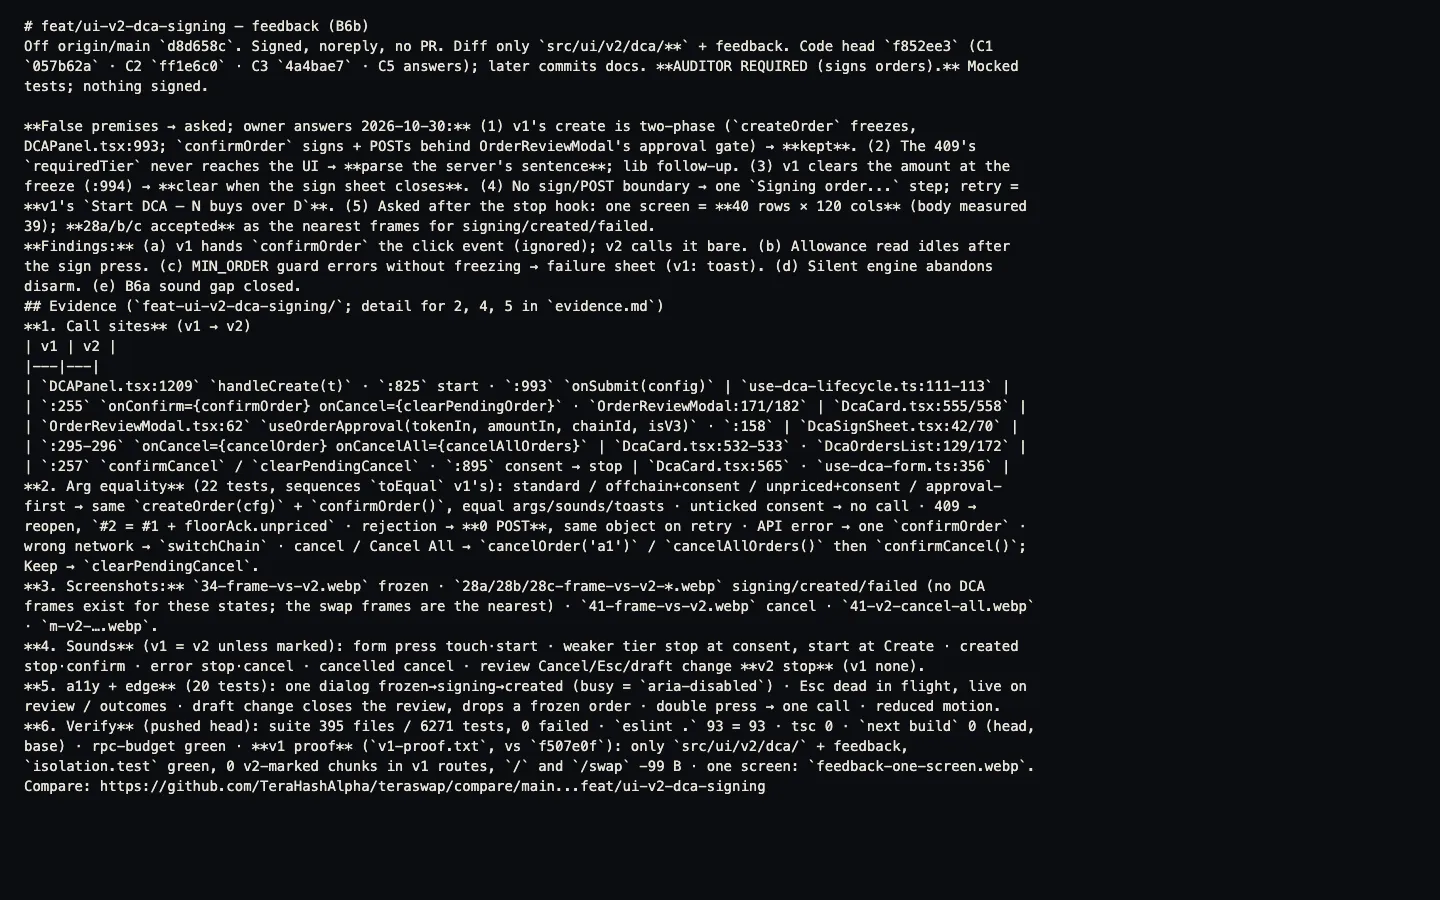
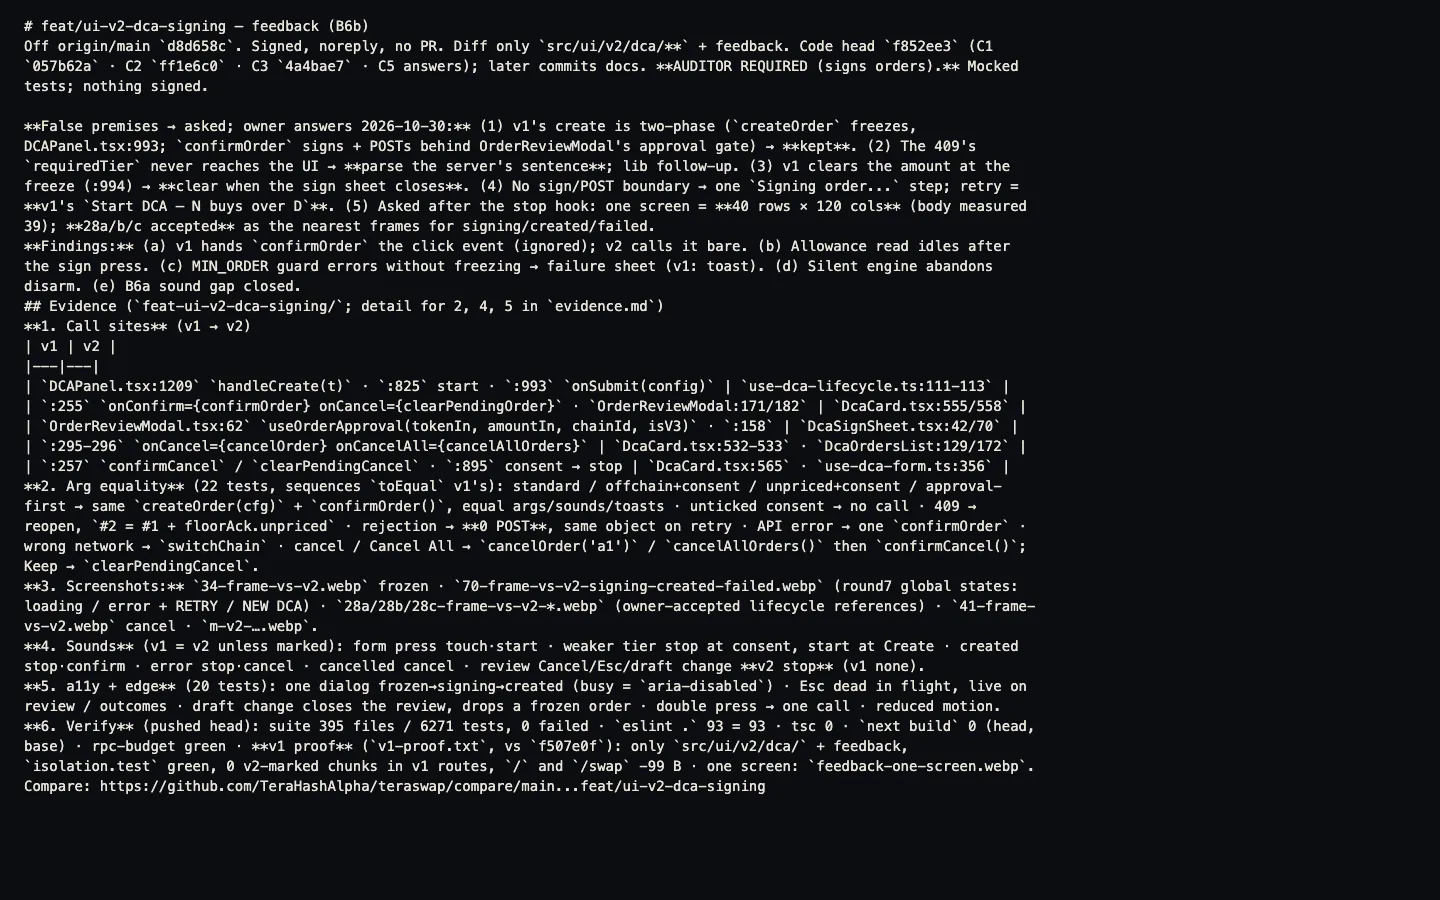
docs(ui-v2): B6b evidence 3 — round7 frame 70 (global states: loading / error + RETRY / NEW DCA) beside the v2 signing, created and failed sheets

Changed region(s): [[0.0312, 0.6222, 0.7188, 0.7156]]

diff --git a/docs/feedback/feat-ui-v2-dca-signing.md b/docs/feedback/feat-ui-v2-dca-signing.md
@@ -13,7 +13,7 @@ Off origin/main `d8d658c`. Signed, noreply, no PR. Diff only `src/ui/v2/dca/**` 
 | `:295-296` `onCancel={cancelOrder} onCancelAll={cancelAllOrders}` | `DcaCard.tsx:532-533` · `DcaOrdersList:129/172` |
 | `:257` `confirmCancel` / `clearPendingCancel` · `:895` consent → stop | `DcaCard.tsx:565` · `use-dca-form.ts:356` |
 **2. Arg equality** (22 tests, sequences `toEqual` v1's): standard / offchain+consent / unpriced+consent / approval-first → same `createOrder(cfg)` + `confirmOrder()`, equal args/sounds/toasts · unticked consent → no call · 409 → reopen, `#2 = #1 + floorAck.unpriced` · rejection → **0 POST**, same object on retry · API error → one `confirmOrder` · wrong network → `switchChain` · cancel / Cancel All → `cancelOrder('a1')` / `cancelAllOrders()` then `confirmCancel()`; Keep → `clearPendingCancel`.
-**3. Screenshots:** `34-frame-vs-v2.webp` frozen · `28a/28b/28c-frame-vs-v2-*.webp` signing/created/failed (no DCA frames exist for these states; the swap frames are the nearest) · `41-frame-vs-v2.webp` cancel · `41-v2-cancel-all.webp` · `m-v2-….webp`.
+**3. Screenshots:** `34-frame-vs-v2.webp` frozen · `70-frame-vs-v2-signing-created-failed.webp` (round7 global states: loading / error + RETRY / NEW DCA) · `28a/28b/28c-frame-vs-v2-*.webp` (owner-accepted lifecycle references) · `41-frame-vs-v2.webp` cancel · `m-v2-….webp`.
 **4. Sounds** (v1 = v2 unless marked): form press touch·start · weaker tier stop at consent, start at Create · created stop·confirm · error stop·cancel · cancelled cancel · review Cancel/Esc/draft change **v2 stop** (v1 none).
 **5. a11y + edge** (20 tests): one dialog frozen→signing→created (busy = `aria-disabled`) · Esc dead in flight, live on review / outcomes · draft change closes the review, drops a frozen order · double press → one call · reduced motion.
 **6. Verify** (pushed head): suite 395 files / 6271 tests, 0 failed · `eslint .` 93 = 93 · tsc 0 · `next build` 0 (head, base) · rpc-budget green · **v1 proof** (`v1-proof.txt`, vs `f507e0f`): only `src/ui/v2/dca/` + feedback, `isolation.test` green, 0 v2-marked chunks in v1 routes, `/` and `/swap` −99 B · one screen: `feedback-one-screen.webp`.
